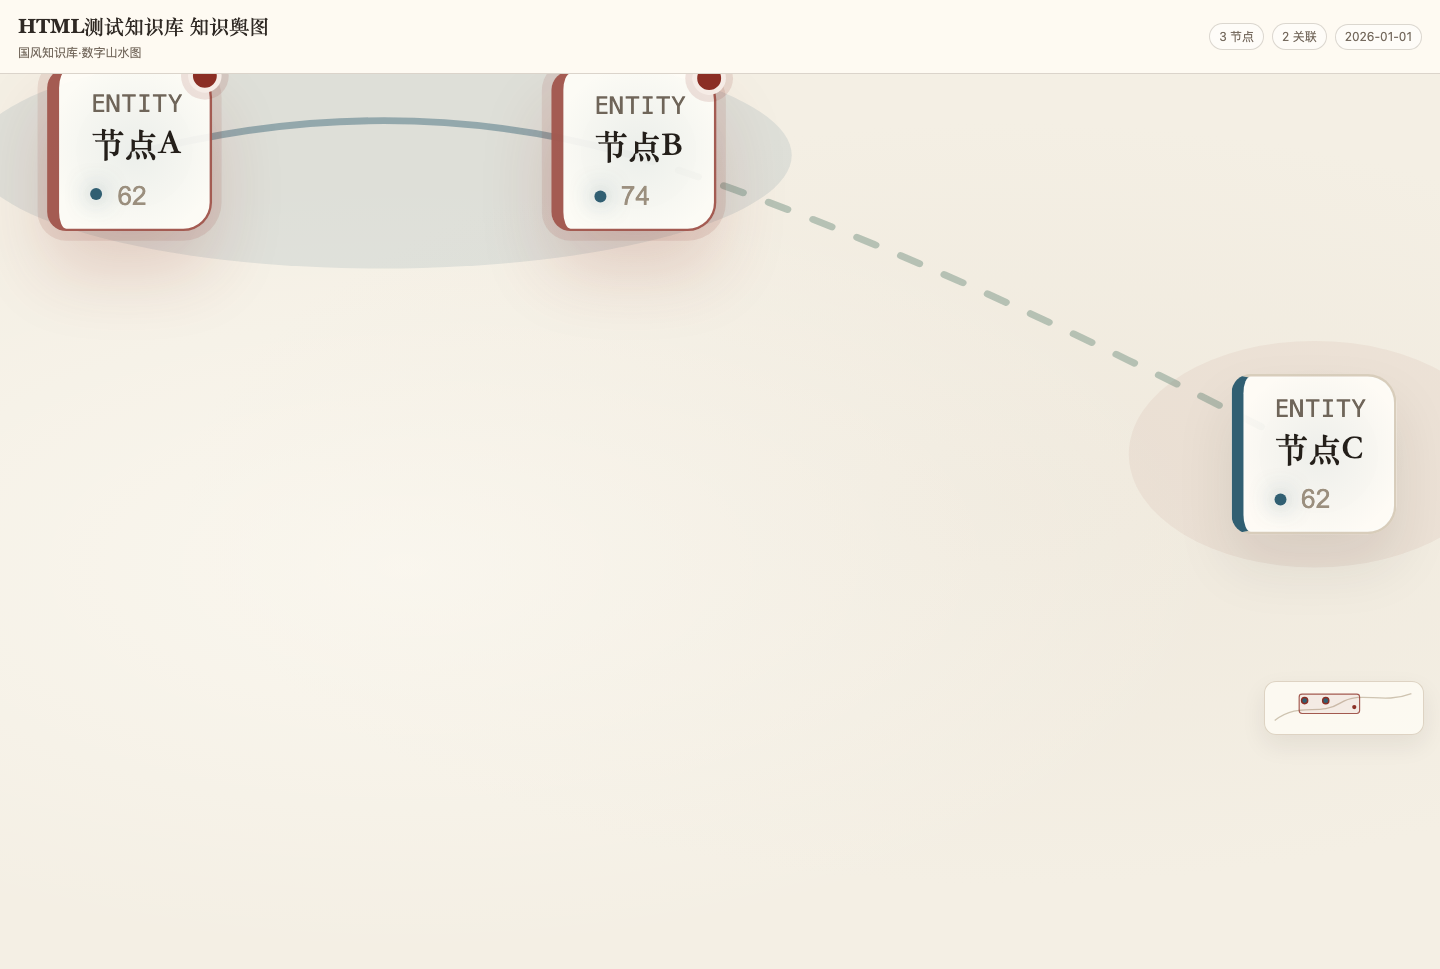
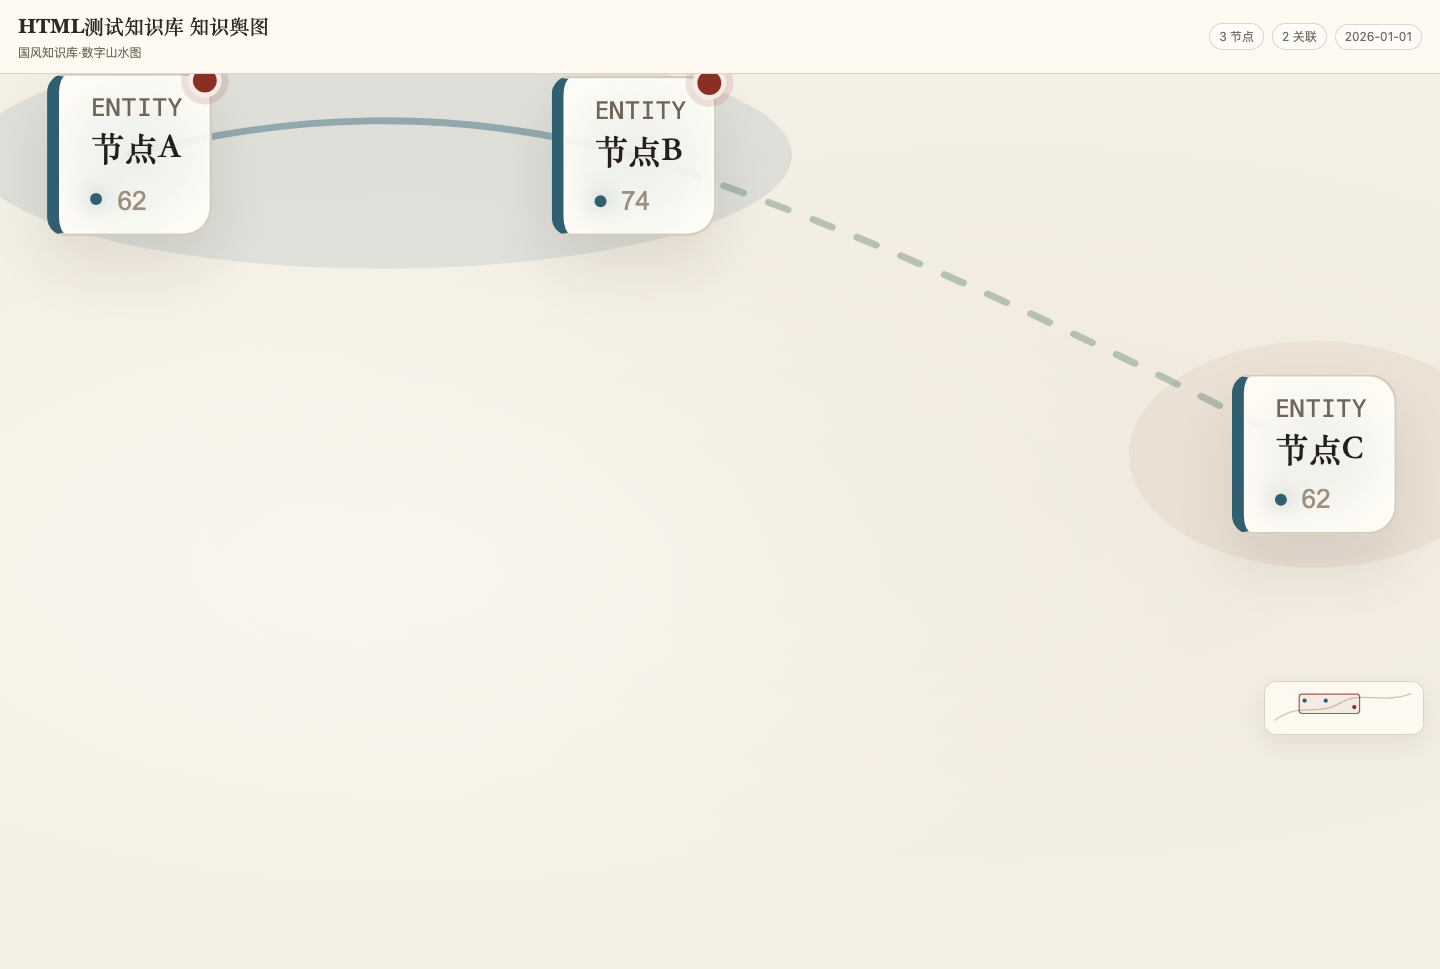
feat(graph): split read and selection routing

Changed region(s): [[0.0, 0.0619, 0.1562, 0.2477], [0.375, 0.0619, 0.5, 0.2477], [0.9062, 0.4644, 0.9375, 0.4954]]

diff --git a/packages/graph-engine/src/render/static-renderer.ts b/packages/graph-engine/src/render/static-renderer.ts
@@ -1,4 +1,15 @@
-import type { CommunityId, GraphData, GraphDiff, NodeId, PinMap, SelectionInput, ThemeId, WikiPath } from "../types";
+import type {
+  CommunityId,
+  GraphData,
+  GraphDiff,
+  GraphNode,
+  GraphOpenPagePayload,
+  NodeId,
+  PinMap,
+  SelectionInput,
+  ThemeId,
+  WikiPath
+} from "../types";
 import { createLiveGraphSimulation, PinState, pinsToPositions, type LiveGraphSimulation } from "../sim";
 import { getCommunityColor, getThemeTokens, themeTokensToCssVars } from "../themes";
 import {
@@ -27,8 +38,8 @@ interface StaticRendererOptions {
   data: GraphData;
   pins?: PinMap;
   theme: ThemeId;
-  onOpenPage?: (path: WikiPath) => void;
-  onSelect?: (selection: SelectionInput) => void;
+  onOpenPage?: (payload: GraphOpenPagePayload) => void;
+  onSelectionChange?: (selection: SelectionInput) => void;
   persistPins?: (pins: PinMap) => Promise<void>;
   onDragStateChange?: (dragging: boolean) => void;
   live?: boolean;
@@ -44,6 +55,7 @@ export interface StaticGraphRenderer {
   setPins(pins: PinMap): void;
   focusNode(pathOrId: WikiPath): void;
   select(selection: SelectionInput): void;
+  clearInteraction(): void;
   resetLayout(): void;
   destroy(): void;
 }
@@ -79,8 +91,16 @@ export function createStaticGraphRenderer(container: HTMLElement, options: Stati
   const root = document.createElement("div");
   root.className = "llm-wiki-graph-engine";
   root.dataset.llmWikiGraphRoot = "true";
+  root.tabIndex = 0;
   container.replaceChildren(root);
   ensureStaticRendererStyles(container.ownerDocument || document);
+  const ownerDocument = container.ownerDocument || document;
+  const handleDocumentKeydown = (event: KeyboardEvent) => {
+    if (event.key !== "Escape" || !hasInteractionState()) return;
+    event.stopPropagation();
+    clearInteractionState();
+  };
+  ownerDocument.addEventListener("keydown", handleDocumentKeydown);
   const viewportCommitter = createViewportFrameCommitter(commitViewport, root.ownerDocument.defaultView || undefined);
   let blankPan: { pointerId: number; lastX: number; lastY: number } | null = null;
   let viewportAnimationTimer: ReturnType<typeof setTimeout> | null = null;
@@ -99,21 +119,29 @@ export function createStaticGraphRenderer(container: HTMLElement, options: Stati
     graph = buildRenderableGraph(data, { pins, theme, selectedNodeId, selection, pathCache });
     pinState = new PinState(graph, pins);
     applyTheme(root, theme);
-    dom = paint(root, graph, theme, options.onOpenPage, {
+    dom = paint(root, graph, theme, Boolean(options.onOpenPage), {
       onCommunitySelect: (id) => {
         manualNodeIds = [];
         const nextSelection: SelectionInput = { kind: "community", id };
         selection = nextSelection;
-        options.onSelect?.(nextSelection);
+        selectedNodeId = null;
+        options.onSelectionChange?.(nextSelection);
         render({ selection: nextSelection });
       },
-      onNodeSelect: (id, additive) => {
-        const nextSelection = additive
-          ? shiftSelection(id, manualNodeIds.length ? manualNodeIds : selectedNodeIds(selection))
-          : { kind: "node" as const, id };
+      onNodeClick: (id, additive) => {
+        if (!additive) {
+          manualNodeIds = [];
+          selection = null;
+          selectedNodeId = id;
+          options.onOpenPage?.(openPagePayloadForNode(data, id));
+          render({ selectedNodeId: id, selection: null });
+          return;
+        }
+        const nextSelection = shiftSelection(id, manualNodeIds.length ? manualNodeIds : selectedNodeIds(selection));
         manualNodeIds = nextSelection.kind === "nodes" ? nextSelection.ids : nextSelection.kind === "node" ? [nextSelection.id] : [];
         selection = nextSelection;
-        options.onSelect?.(nextSelection);
+        selectedNodeId = null;
+        options.onSelectionChange?.(nextSelection);
         render({ selection: nextSelection });
       },
       onDragStart: (id, event) => {
@@ -188,6 +216,9 @@ export function createStaticGraphRenderer(container: HTMLElement, options: Stati
       manualNodeIds = nextSelection.kind === "nodes" ? nextSelection.ids : [];
       render({ selection: nextSelection });
     },
+    clearInteraction(): void {
+      clearInteractionState();
+    },
     resetLayout(): void {
       const nextState = pinState.reset();
       pins = nextState.pins;
@@ -199,6 +230,7 @@ export function createStaticGraphRenderer(container: HTMLElement, options: Stati
       destroyed = true;
       simulation?.destroy();
       simulation = null;
+      ownerDocument.removeEventListener("keydown", handleDocumentKeydown);
       pathCache.clear();
       root.remove();
     }
@@ -206,6 +238,18 @@ export function createStaticGraphRenderer(container: HTMLElement, options: Stati
 
   function assertActive(): void {
     if (destroyed) throw new Error("Graph renderer has been destroyed");
+  }
+
+  function clearInteractionState(): void {
+    manualNodeIds = [];
+    selection = null;
+    selectedNodeId = null;
+    delete root.dataset.focus;
+    render({ selectedNodeId: null, selection: null });
+  }
+
+  function hasInteractionState(): boolean {
+    return Boolean(selectedNodeId || selection || root.dataset.focus);
   }
 
   function restartSimulation(): void {
@@ -483,7 +527,12 @@ export function createStaticGraphRenderer(container: HTMLElement, options: Stati
     close.className = "graph-reader-close";
     close.setAttribute("aria-label", "关闭阅读面板");
     close.textContent = "×";
-    close.addEventListener("click", () => render({ selectedNodeId: null, selection: null }));
+    close.addEventListener("click", () => {
+      manualNodeIds = [];
+      selection = null;
+      selectedNodeId = null;
+      render({ selectedNodeId: null, selection: null });
+    });
     header.append(title, meta, close);
 
     const body = document.createElement("div");
@@ -506,7 +555,7 @@ export function createStaticGraphRenderer(container: HTMLElement, options: Stati
 
 interface DragHandlers {
   onCommunitySelect: (id: CommunityId) => void;
-  onNodeSelect: (id: NodeId, additive: boolean) => void;
+  onNodeClick: (id: NodeId, additive: boolean) => void;
   onDragStart: (id: string, event: PointerEvent) => void;
   onDragMove: (id: string, event: PointerEvent) => void;
   onDragEnd: (id: string, event: PointerEvent) => void;
@@ -517,7 +566,7 @@ function paint(
   root: HTMLElement,
   graph: RenderableGraph,
   theme: ThemeId,
-  onOpenPage: ((path: WikiPath) => void) | undefined,
+  hasHostReader: boolean,
   dragHandlers: DragHandlers
 ): PaintedGraphDom {
   root.replaceChildren();
@@ -578,7 +627,7 @@ function paint(
   const nodeLayer = document.createElement("div");
   nodeLayer.className = "node-layer";
   for (const node of graph.nodes) {
-    const button = createNodeButton(node, onOpenPage, dragHandlers);
+    const button = createNodeButton(node, dragHandlers);
     painted.nodeElements.set(node.id, button);
     painted.basePoints.set(node.id, node.point);
     nodeLayer.appendChild(button);
@@ -618,7 +667,7 @@ function paint(
   }
   minimap.appendChild(miniSvg);
   root.appendChild(minimap);
-  if (!onOpenPage) {
+  if (!hasHostReader) {
     const reader = document.createElement("aside");
     reader.className = "graph-reader";
     reader.dataset.state = graph.selectedNodeId ? "open" : "closed";
@@ -628,7 +677,7 @@ function paint(
   return painted;
 }
 
-function createNodeButton(node: RenderableNode, onOpenPage: ((path: WikiPath) => void) | undefined, dragHandlers: DragHandlers): HTMLButtonElement {
+function createNodeButton(node: RenderableNode, dragHandlers: DragHandlers): HTMLButtonElement {
   const button = document.createElement("button");
   button.className = "node";
   if (node.unavailable) button.classList.add("is-disabled");
@@ -648,8 +697,7 @@ function createNodeButton(node: RenderableNode, onOpenPage: ((path: WikiPath) =>
   button.setAttribute("aria-pressed", node.selected ? "true" : "false");
   button.addEventListener("dblclick", (event) => {
     event.stopPropagation();
-    if (dragHandlers.onNodeDoubleClick(node.id)) return;
-    if (node.sourcePath && onOpenPage) onOpenPage(node.sourcePath);
+    dragHandlers.onNodeDoubleClick(node.id);
   });
   bindDragHandlers(button, node.id, dragHandlers);
 
@@ -712,7 +760,7 @@ function bindDragHandlers(button: HTMLButtonElement, nodeId: string, handlers: D
       return;
     }
     event.stopPropagation();
-    handlers.onNodeSelect(nodeId, event.shiftKey);
+    handlers.onNodeClick(nodeId, event.shiftKey);
   });
 }
 
@@ -730,6 +778,79 @@ function shiftSelection(id: NodeId, current: NodeId[]): SelectionInput {
   const ids = Array.from(selected);
   if (ids.length === 1) return { kind: "node", id: ids[0] };
   return { kind: "nodes", ids };
+}
+
+function openPagePayloadForNode(data: GraphData, id: NodeId): GraphOpenPagePayload {
+  const node = data.nodes.find((item) => item.id === id);
+  if (!node) {
+    return {
+      path: id,
+      node: {
+        id,
+        title: id,
+        type: "entity",
+        typeLabel: "实体",
+        sourcePath: id,
+        community: null,
+        date: null,
+        source: null,
+        isolated: true
+      }
+    };
+  }
+  const sourcePath = wikiPathForRawNode(node);
+  return {
+    path: sourcePath,
+    node: {
+      id: node.id,
+      title: node.label || node.id,
+      type: node.type,
+      typeLabel: typeLabelForNode(node.type),
+      sourcePath,
+      community: node.community ?? null,
+      date: dateForNode(node),
+      source: sourceForNode(node),
+      isolated: isIsolatedNode(data, node.id)
+    }
+  };
+}
+
+function isIsolatedNode(data: GraphData, id: NodeId): boolean {
+  return !data.edges.some((edge) => edge.from === id || edge.to === id);
+}
+
+function wikiPathForRawNode(node: GraphNode): WikiPath {
+  const existing = String(node.source_path || node.path || node.source || "");
+  if (existing) return existing;
+  const id = node.id.endsWith(".md") ? node.id.slice(0, -3) : node.id;
+  const type = String(node.type || "");
+  if (type === "topic") return `wiki/topics/${id}.md`;
+  if (type === "source") return `wiki/sources/${id}.md`;
+  if (type === "comparison") return `wiki/comparisons/${id}.md`;
+  if (type === "synthesis") return `wiki/synthesis/${id}.md`;
+  if (type === "query") return `wiki/queries/${id}.md`;
+  return `wiki/entities/${id}.md`;
+}
+
+function typeLabelForNode(type: unknown): string {
+  const key = String(type || "");
+  if (key === "topic") return "主题";
+  if (key === "source") return "来源";
+  if (key === "comparison") return "对比";
+  if (key === "synthesis") return "综合";
+  if (key === "query") return "查询";
+  if (key === "entity") return "实体";
+  return key || "实体";
+}
+
+function dateForNode(node: GraphNode): string | null {
+  const value = node.date || node.updated_at || node.updatedAt || node.created_at || node.createdAt;
+  return value == null || value === "" ? null : String(value);
+}
+
+function sourceForNode(node: GraphNode): string | null {
+  const value = node.source_title || node.source_url || node.url || node.author || node.source_name;
+  return value == null || value === "" ? null : String(value);
 }
 
 function eventToGraphPoint(root: HTMLElement, event: PointerEvent): { x: number; y: number } {

diff --git a/packages/graph-engine/src/types.ts b/packages/graph-engine/src/types.ts
@@ -251,10 +251,28 @@ export type SelectionInput =
   | { kind: "neighbors"; id: NodeId }
   | { kind: "nodes"; ids: NodeId[] };
 
+export interface GraphOpenPageNode {
+  id: NodeId;
+  title: string;
+  type: GraphNodeType;
+  typeLabel: string;
+  sourcePath: WikiPath;
+  community?: CommunityId | null;
+  date?: string | null;
+  source?: string | null;
+  isolated: boolean;
+}
+
+export interface GraphOpenPagePayload {
+  path: WikiPath;
+  node: GraphOpenPageNode;
+}
+
 export interface GraphEngineCapabilities {
   persistPins?: (pins: PinMap) => Promise<void>;
   onAsk?: (selection: Selection) => void;
-  onOpenPage?: (path: WikiPath) => void;
+  onOpenPage?: (payload: GraphOpenPagePayload) => void;
+  onSelectionChange?: (selection: Selection) => void;
   onDragStateChange?: (dragging: boolean) => void;
 }
 
@@ -270,6 +288,7 @@ export interface GraphEngine {
   isDragging(): boolean;
   focusNode(path: WikiPath): void;
   select(selector: SelectionInput): Selection;
+  clearInteraction(): void;
   setTheme(theme: ThemeId): void;
   setPins(pins: PinMap): void;
   resetLayout(): void;

diff --git a/packages/graph-engine/src/index.ts b/packages/graph-engine/src/index.ts
@@ -26,6 +26,7 @@ export function createGraphEngine(container: HTMLElement, options: GraphEngineOp
   let currentTheme: ThemeId = options.theme;
   let destroyed = false;
   const canAsk = Boolean(options.capabilities?.onAsk);
+  const canSelect = Boolean(options.capabilities?.onSelectionChange || options.capabilities?.onAsk);
   const resolveForHostCapabilities = (input: SelectionInput): Selection =>
     resolveSelectionForCapabilities(options.data, input, { canAsk });
   const renderer = createStaticGraphRenderer(container, {
@@ -33,7 +34,13 @@ export function createGraphEngine(container: HTMLElement, options: GraphEngineOp
     pins: options.pins || {},
     theme: currentTheme,
     onOpenPage: options.capabilities?.onOpenPage,
-    onSelect: canAsk ? (input) => options.capabilities?.onAsk?.(resolveForHostCapabilities(input)) : undefined,
+    onSelectionChange: canSelect
+      ? (input) => {
+          const selection = resolveForHostCapabilities(input);
+          options.capabilities?.onSelectionChange?.(selection);
+          if (!options.capabilities?.onSelectionChange) options.capabilities?.onAsk?.(selection);
+        }
+      : undefined,
     persistPins: options.capabilities?.persistPins,
     onDragStateChange: options.capabilities?.onDragStateChange
   });
@@ -62,6 +69,12 @@ export function createGraphEngine(container: HTMLElement, options: GraphEngineOp
       assertActive();
       renderer.select(selector);
       return resolveForHostCapabilities(selector);
+    },
+
+    clearInteraction(): void {
+      assertActive();
+      renderer.clearInteraction();
+      delete container.dataset.llmWikiGraphFocus;
     },
 
     setTheme(theme: ThemeId): void {

diff --git a/workbench/web/src/components/GraphPanel.tsx b/workbench/web/src/components/GraphPanel.tsx
@@ -262,8 +262,8 @@ export function GraphPanel({
 			pins: layoutPinsRef.current,
 			theme: graphThemeRef.current,
 			capabilities: {
-				onOpenPage: (path) => onOpenPageRef.current?.(path),
-				onAsk: setSelection,
+				onOpenPage: (payload) => onOpenPageRef.current?.(payload.path),
+				onSelectionChange: setSelection,
 				persistPins,
 				onDragStateChange: (dragging) => {
 					const decision = diffQueueRef.current.setDragging(dragging);